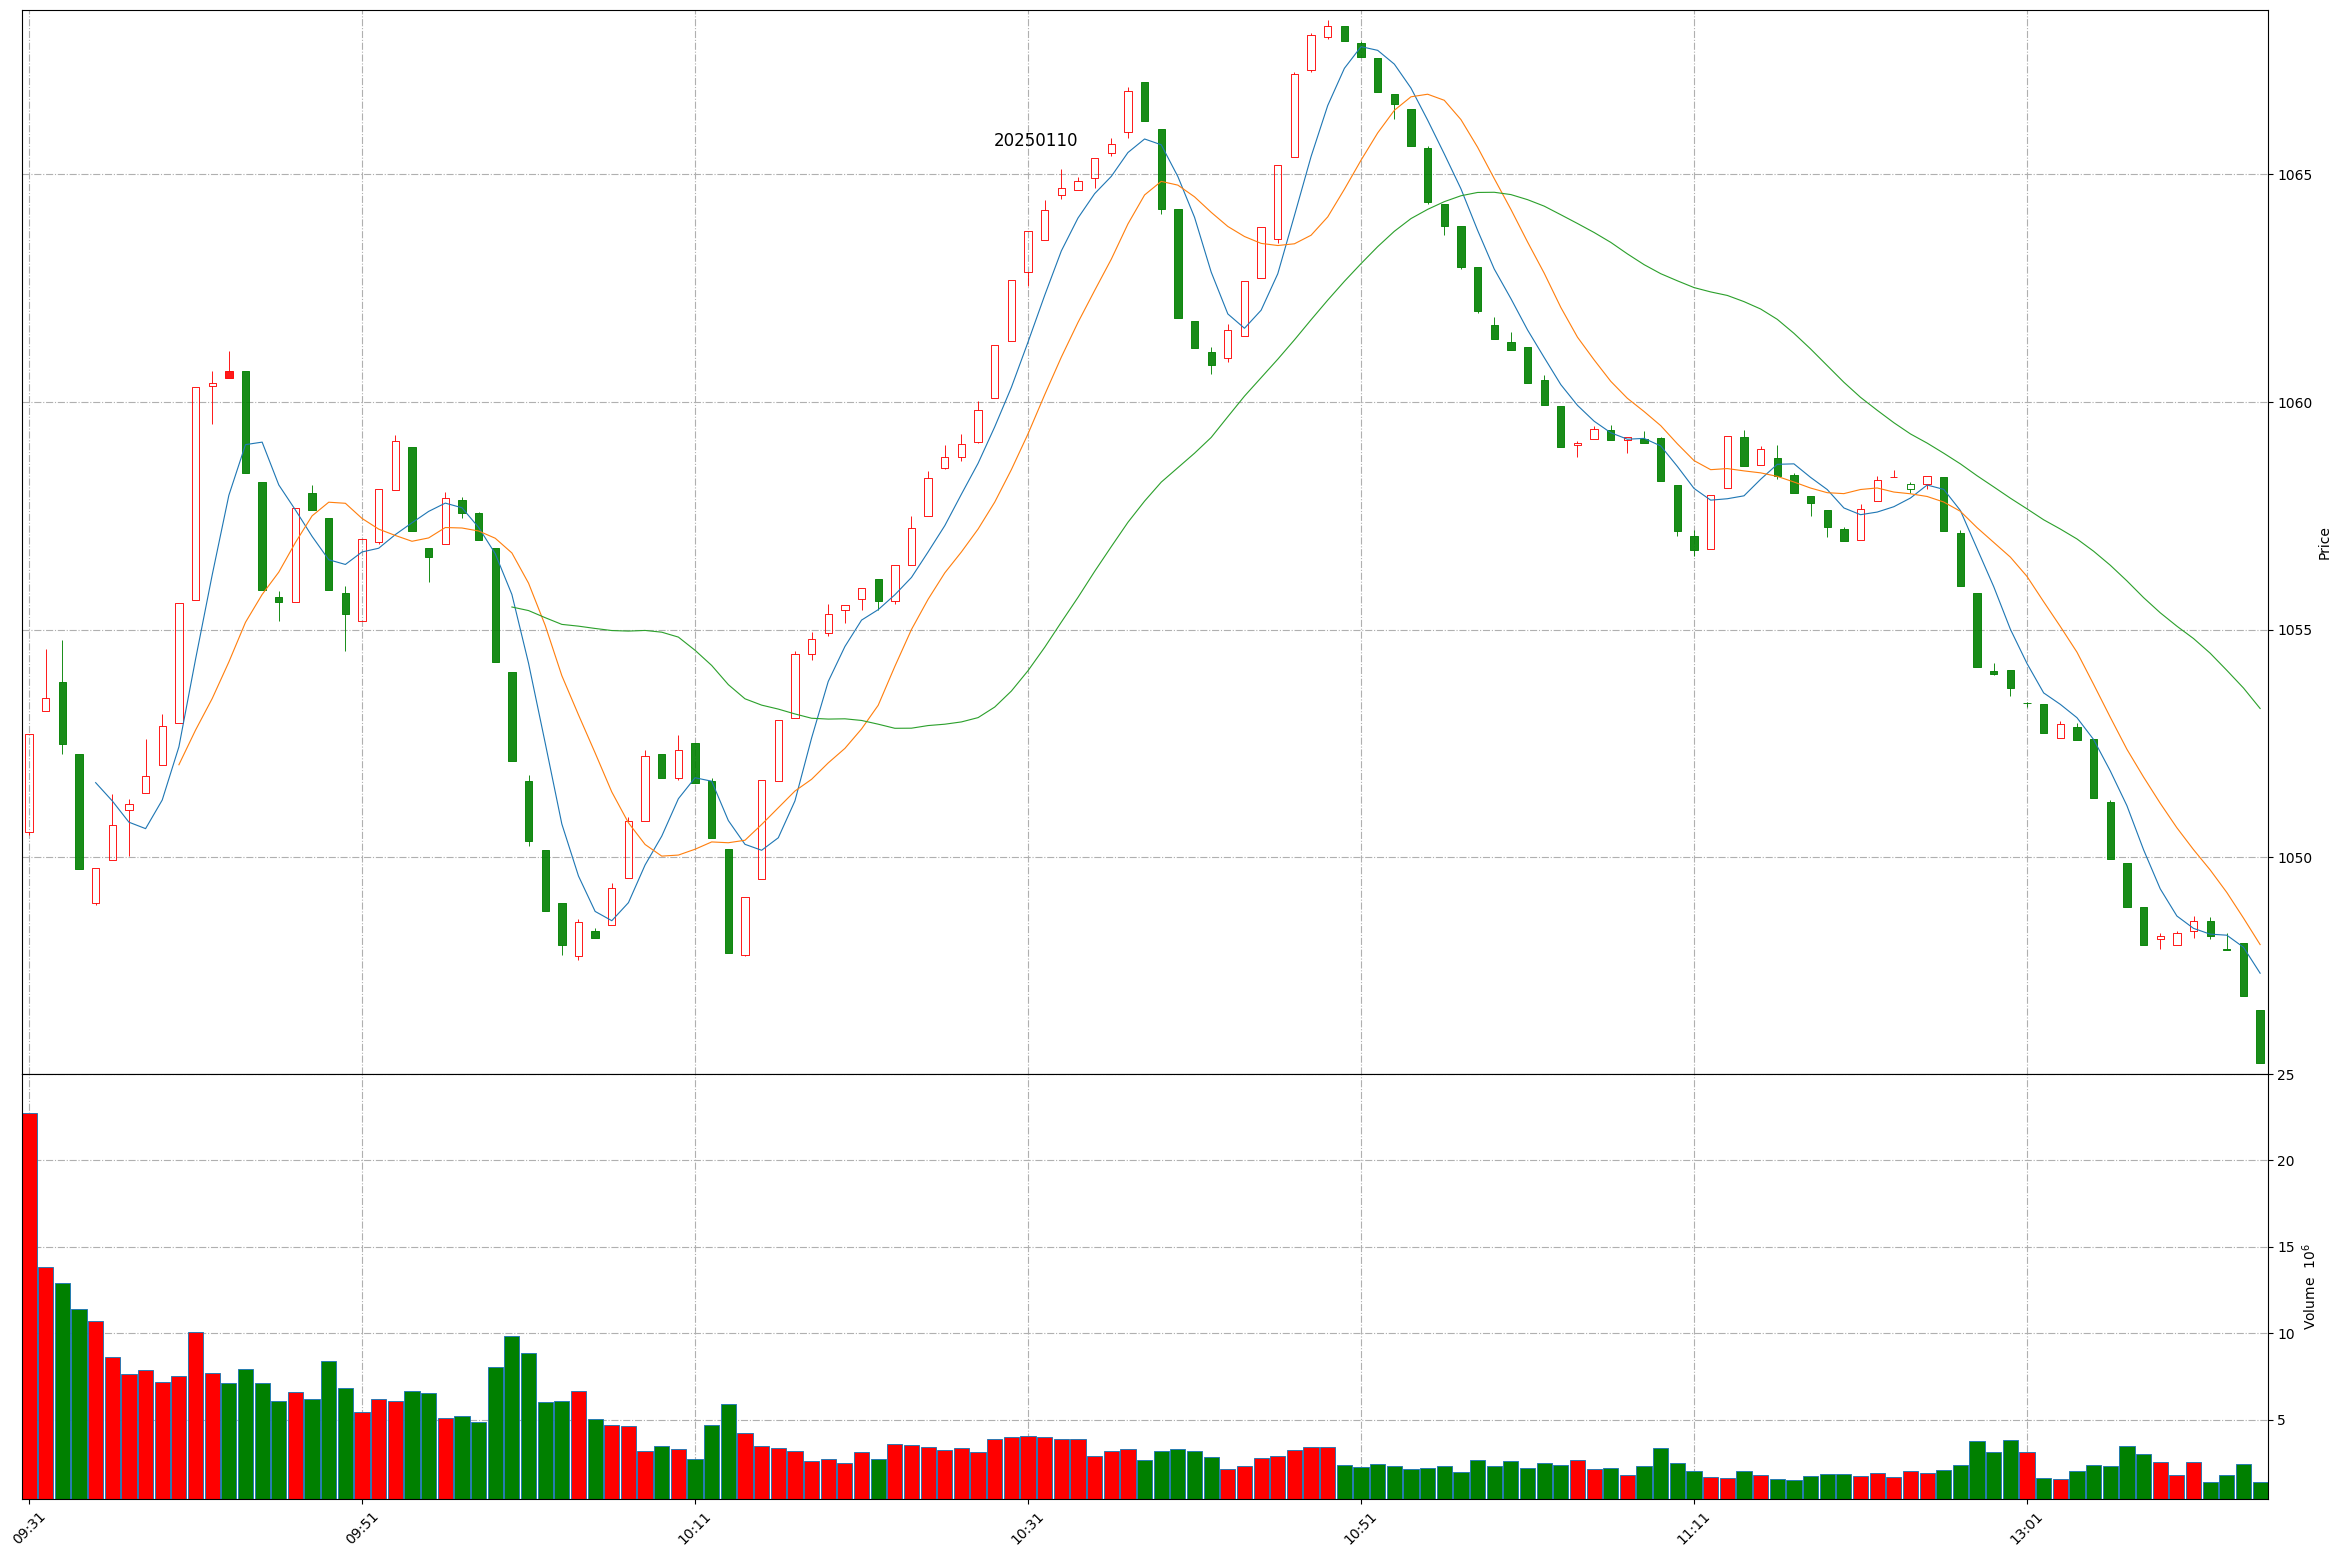
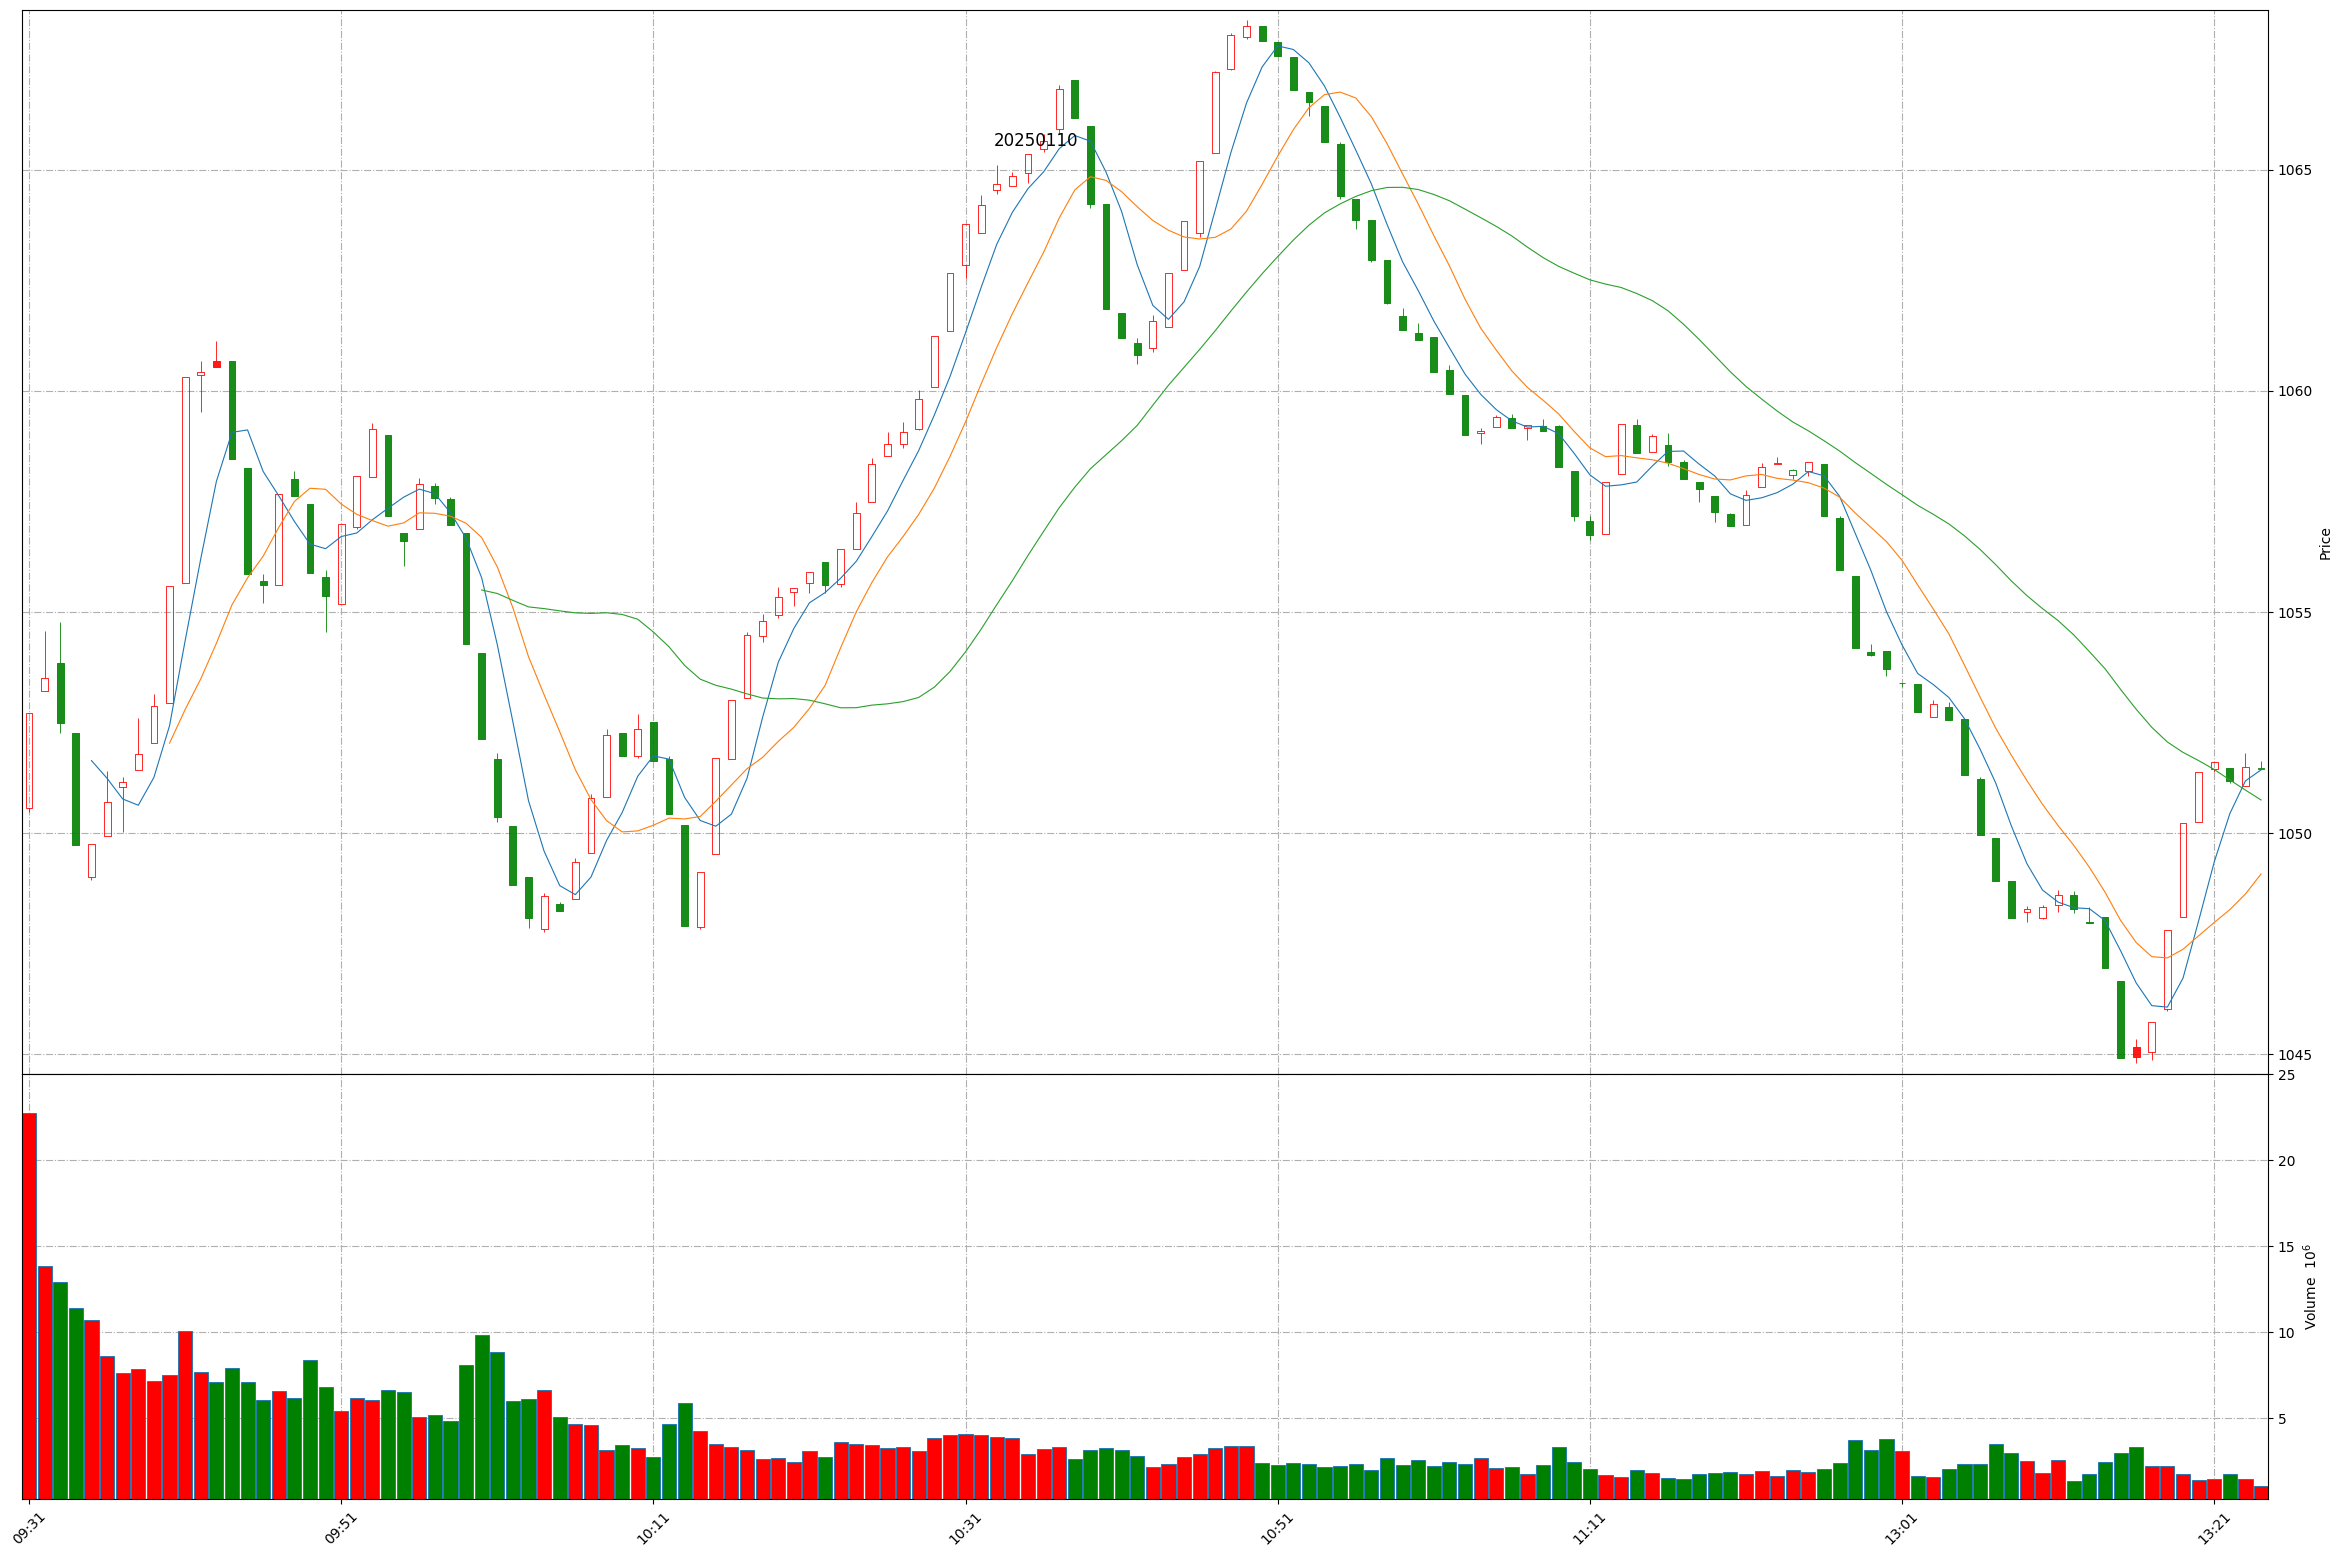
Github action update at 2025-01-10 13:23:50.

diff --git a/README.md b/README.md
@@ -1,11 +1,11 @@
 
 # Daily-A-share-market-quotes 每日 A 股指数（5min 更新）- 20250110
 
-### 上证指数 20250110 13:14
+### 上证指数 20250110 13:23
 ![](./fig/2025/1/20250110-sh000001.png)
 
-### 深证成指 20250110 13:14
+### 深证成指 20250110 13:23
 ![](./fig/2025/1/20250110-sz399001.png)
 
-### 北证50 20250110 13:14
+### 北证50 20250110 13:23
 ![](./fig/2025/1/20250110-bj899050.png)
